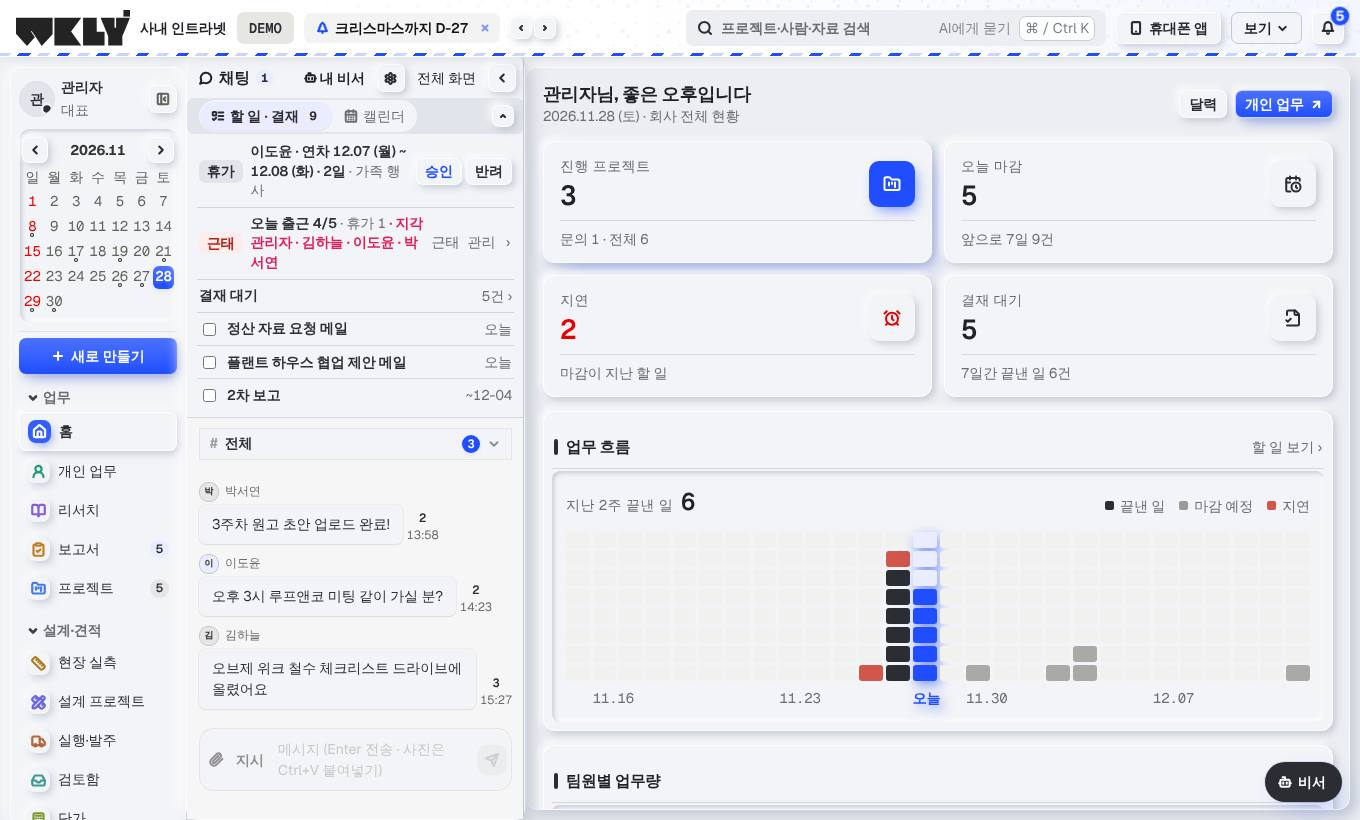
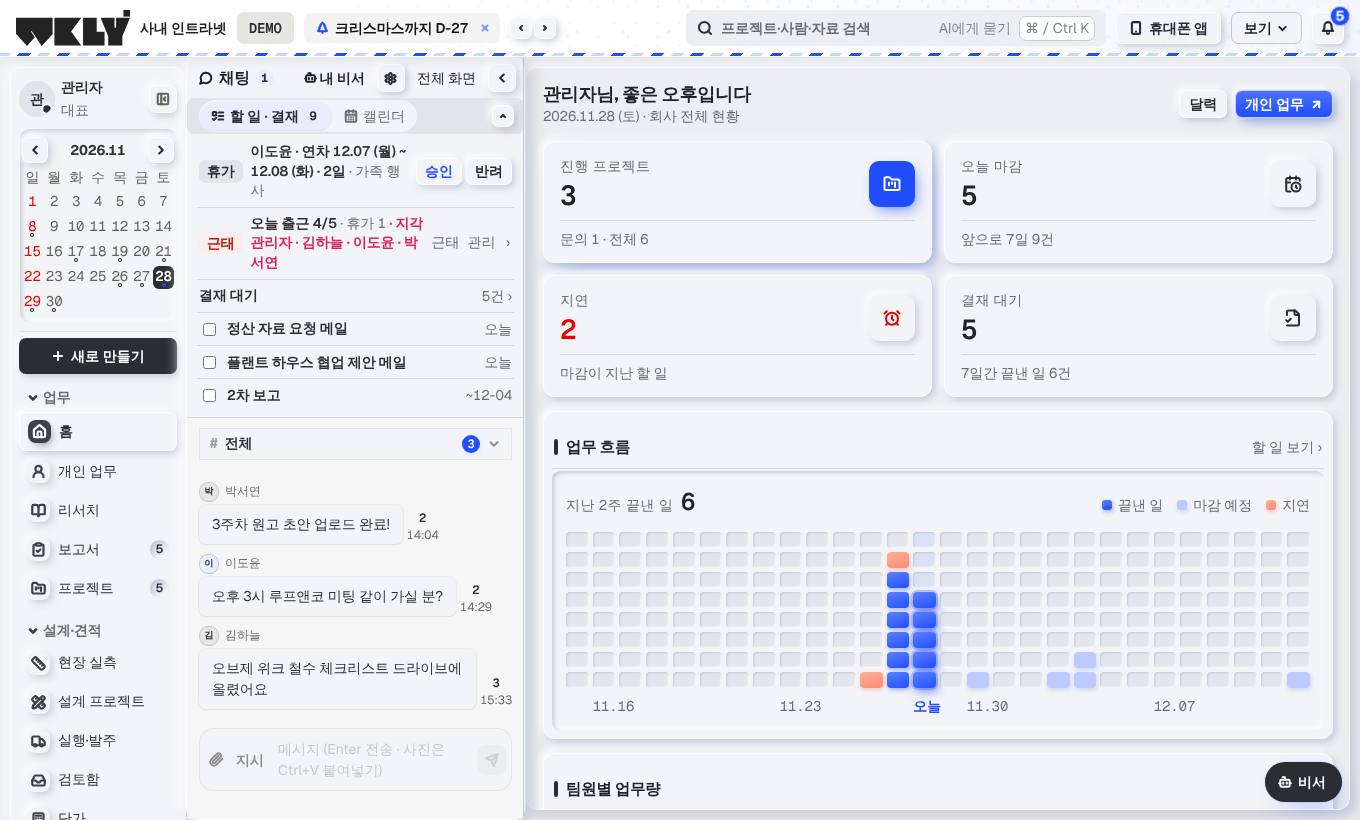
왼쪽 메뉴를 모노톤으로 (메뉴 색은 화면 안에서만)
Claude-Session: https://claude.ai/code/session_01F3gTQwJrgJEzSdbh5GAwru

diff --git a/erp/src/mono.css b/erp/src/mono.css
@@ -307,3 +307,11 @@ html:not([data-theme="dark"]) :is(.btn, .icon-btn, .quick-btn, .new-btn, .input,
 html:not([data-theme="dark"]) :is(.box, .stat, .kpi, .card, .home-kpi, .today-card, .checkin-card, .brief, .rd-box, .pc-card, .proj-card, .pboards-item, .week-day, .div-card, .ad-pcard, .mini-cal, .home-hero) { border-radius: var(--v8-r-card) !important; }
 html:not([data-theme="dark"]) .app-page :is(.main, .web-panel, .chat-dock, .profile) { border-radius: 12px !important; }
 html:not([data-theme="dark"]) .week-item { border-radius: 6px; }
+
+/* 왼쪽 메뉴는 모노톤 (2026-11-28 대표 '이거는 모노톤으로 수정해'): 아이콘 · 고른 줄 · 숫자 칸 모두 먹색 · 회색 — 메뉴 색은 그 화면 안(주 버튼 · 고른 것)에서만 */
+html:not([data-theme="dark"]) .app-page .profile .side-item > svg { background: var(--nm-face); color: var(--v9-ink); box-shadow: var(--nm-up-sm); }
+html:not([data-theme="dark"]) .app-page .profile .side-item.on { border-color: rgba(255, 255, 255, .8); box-shadow: var(--nm-up-sm); }
+html:not([data-theme="dark"]) .app-page .profile .side-item.on > svg { background: var(--v9-ink); color: #fff; box-shadow: 3px 4px 8px -3px rgba(43, 45, 51, .55); }
+html:not([data-theme="dark"]) .app-page .profile :is(.side-n, .side-item .count) { background: #e1e4ea !important; color: var(--v9-ink) !important; box-shadow: var(--nm-in-sm); }
+html:not([data-theme="dark"]) .app-page .profile :is(.new-btn, .btn-primary) { background: var(--v9-ink) !important; box-shadow: var(--nm-up-sm) !important; }
+html:not([data-theme="dark"]) .app-page .profile button.day.today { background: var(--v9-ink) !important; box-shadow: none; }

diff --git a/CLAUDE.md b/CLAUDE.md
@@ -112,7 +112,7 @@ Codex 공동 개발은 끝났다(2026-11-16 종료 · 2026-11-20 대표 지시 '
   - `src/styles.css` : 디자인 토큰 · WKLY v7 디자인 시스템 (사각 모서리, 글자 크기 단계 `--fs-cap 12 · sm 12.5 · body 13.5 · sub 14.5 · title 16 · num 19 · hero 28` (2026-11-09 위계 다시 잡음 · 맨 아래 :root 가 최종값 · 터치 화면은 반 단계 큼))
   - (아래 글자 위계의 굵기 800 · 700 은 2026-11-28 디자인 v9 에서 700 · 600 으로, 색 값은 mono.css 토큰으로 바뀜 — 크기 3단계 · px 직접 쓰지 않기 규칙은 그대로)
   - **글자 위계 (2026-11-17 대표 지시 '전체 공통사항 · 글자 크기는 타이틀 · 본문 · 강조 3가지만 · 색 구분과 볼드 규칙') — 새 화면도 반드시 지킬 것**: `src/type.css` 를 main.tsx 맨 끝에서 읽어 앞의 모든 단계를 덮어씀. 크기 3개 = 타이틀 `--t-title` 18px(제목 · 큰 숫자) · 강조 `--t-em` 15.5px(소제목 · 이름 줄) · 본문 `--t-body` 14px(나머지 전부 — 날짜 · 메타 · 배지 포함, 터치 화면 18.5/16/15) · 예전 토큰은 cap/sm/small/body → 본문, sub → 강조, title/num/hero → 타이틀로 이어짐. CSS 에 px 글자 크기를 새로 쓰지 말고 var(--fs-body | --fs-sub | --fs-title) 만 쓸 것(2026-11-17 에 94곳 바꿈 · 예외는 알림 숫자 동그라미 .side-n · .q2-badge · .bell .count 12px). 굵기 3개 = 800 타이틀 · 700 강조 · 400 본문(500 · 600 · 650 · 750 안 씀 · 76곳 바꿈). 색 = --tx-title #151d18 · --tx-body #222a25 · --tx-sub #535c56(보조는 크기 대신 색으로 낮춤 · --gray 도 이 색) · --tx-key #1f6b4a(누를 수 있는 것 · 고른 것) · 빨강은 지연 · 경고만. 묶음 클래스 .tx-title · .tx-em · .tx-body · .tx-sub · .tx-key. 차트 SVG 글자(charts.tsx 등)는 그대로
-  - **디자인 v9 모노톤 + 네온 빛 (2026-11-28 대표가 핀터레스트 참고 화면 넷을 골라 '이것들을 조합해서 디자인잡아 · 인트라넷 디자인 전체를 변경해 · 모노톤과 네온 효과' → '남은 화면들도 모노톤으로 · 폰트와 디자인규칙까지 모두 변경해 · 대시보드또한 디자인 배치 다시' · '색은 첨부이미지와 같이 네온 효과' · '빛이 새어나가는 효과를 잘 만들어') — 규칙 문서 `erp/docs/DESIGN_V9.md` · 새 화면도 반드시 이 규칙**: `src/mono.css`(main.tsx 맨 끝)가 토큰을 정함. ① 색 = 회색 계열 하나(바탕 #f0f0ee · 흰 카드 · 먹색 #141414 = 고른 것 · 막대) + 네온 파랑 `--v9-accent` #1f4dff 하나 · 빨강 · 노랑은 지연 · 경고만 · 초록 점은 '정상'만 ② 네온 = 가장자리에서 오른쪽 아래로 새어 나가는 파랑 빛 `--glow-1/2/3` · `--neon-soft` — 주 버튼 · 고른 것 · 오늘 · 가장 중요한 숫자 하나 · 누를 수 있는 카드 hover 에만, 글자색으로는 안 씀 ③ 글꼴 = 영문 · 숫자 Geist · 한글 Pretendard · 큰 숫자 · 연번 Geist Mono(구글 폰트 · index.html) · 크기 18 / 15.5 / 14 그대로 + 큰 숫자 `--t-num` 24 · **굵기 700 / 600 / 400**(예전 800 / 700 을 CSS 전체에서 한 단계씩 내림) ④ 모서리 카드 14 · 버튼 10 · 알약 ⑤ 카드 틀 = 회색 머리 + 흰 본문. 같은 날 **모든 CSS 의 굳은 색을 회색으로 바꿈**(초록 · 미색 · 보라 → 같은 밝기 회색 · 파랑 → `--v9-accent` / `-tint` · '화면 어둡게' 규칙 줄은 그대로 · 빨강 · 주황 · 노랑은 그대로) — **새 CSS 에 색 값을 직접 쓰지 말고 토큰을 쓸 것.** 구분 색은 `--div-ar/tw/rs`(먹색 · 회색 · 연회색) · 달력 내 업무는 네온 파랑. 홈 대시보드 새 배치(`pages/Dashboard.tsx` · `.css`): 인사 + 주 버튼 → 숫자 카드 넷(작은 막대 · 아래 설명 줄 · 첫 카드에 빛) → '업무 흐름' 점 격자(지난 2주 끝낸 일 · 앞으로 2주 마감 · 오늘 기둥에 빛 · `lib/dashboard.ts` dayFlow) + 팀원 세로 막대 → 마감이 가까운 프로젝트 표(진행 막대 · 상태 알약) → 앞으로 7일 · 구분별 → 진행 프로젝트 카드. 같은 날 2차 '부드럽게'(대표 '아직 안 바꾼 곳들도 모두 모노톤으로' · '디자인 ui,ux도 바꿔 · 색상의 사용도 수정하고 · 부드러운 느낌'): 새까만 색 대신 부드러운 먹색 `--v9-ink` #2b2d33 · 고른 것은 검은 알약 대신 연한 파랑 바탕 · 자주 누르는 버튼(.btn-blue 등)은 연한 파랑 · 테두리 대신 옅은 그림자 · 카드 18 / 버튼 12 · **styles.css 의 '모든 모서리 0 !important' 고정을 없앰(다시 넣지 말 것)** · 빛은 테 없이 넓게 · 0.2초 전환 · 창 뒤 뿌옇게. 차트(LedgerStats · MarketingFlow) · 화이트보드(미니맵 · 커서 · Excalidraw 색) · 설계(제안 보드 견본 색 · 3D 바닥 · 도면 바탕) · 기념일 장식 띠 · PC 오프라인 화면(desktop/offline.html — 다음 PC 프로그램 릴리스 때 반영)도 회색 + 네온 파랑. 그대로 둔 것: 실제 자재 색(3D · 마감재) · 거래처에 나가는 것(제안서 슬라이드 · 영업 메일 · 카드뉴스 · 광고 이미지). 같은 날 3차 '선명하게 · 메뉴마다 다른 색'(대표 '광고 화면 기간 고르기 칸과 묶음 탭도 고쳐 · 아이콘과 배경들 각각의 카드들의 선구분을 선명하게 · 색은 각 메뉴마다 다른 색' · 참고 Product UI Styleguide): **강조색 `--v9-accent` 는 메뉴마다 다름**(`lib/menuColors.ts` · Shell 이 지금 메뉴 색을 html 에 넣음 · 빛 · 연한 바탕 · 주 버튼은 color-mix 로 계산 — CSS 에 파랑을 직접 쓰지 말 것 · 새 메뉴는 색 한 줄 추가) · 왼쪽 메뉴 아이콘은 메뉴 색 칸 · 카드는 흰 바탕 + 1px 선 #dbdbd7 + 옅은 그림자(바탕 #eeeeeb) · 광고 묶음 탭 = 홈 안의 흰 카드 · 기간 고르기 = 알약. 같은 날 4차 '볼록 · 오목'(대표가 뉴모피즘 참고 그림 두 장을 보내 '이 ui도 사용해' · '이것도 넣어'): 면은 바탕과 거의 같은 밝은 회색 · 구분은 왼쪽 위 빛 + 오른쪽 아래 그림자(`--nm-up` 떠 있음 = 카드 · 버튼 / `--nm-in` 눌림 = 입력 칸 · 고른 칩 · 고른 메뉴 줄) · 구간 고르기는 회색 홈 + 흰 알약 · 켜고 끄는 설정은 체크박스에 className `nm-switch`(스위치 모양). 같은 날 5차(대표 '나머지 화면들도 모두 볼록 오목 디자인으로 · 모서리 라운드 좀 더 각지게'): 흰 바탕을 없앰 — `--white` · `--v8-card` 와 모든 CSS 의 흰 바탕 165곳을 `var(--nm-face)` 로(**새 CSS 에 `background: #fff` 를 쓰지 말 것**) · 테두리 있는 묶음 칸 30여 종을 떠 있는 모양으로 · 모서리 카드 10 / 버튼 · 입력 · 칩 7 / 큰 판 12(알약 · 원은 스위치와 숫자 동그라미만). 사용 안내 사진 13장 · 영상 3개 다시 찍음 · 안내 글(guides.ts 두 곳)의 홈 · 할 일(/my) · 일정(/projects?view=calendar)을 새 구조에 맞춤(agent-chat 쪽은 다음 배포 때 반영).
+  - **디자인 v9 모노톤 + 네온 빛 (2026-11-28 대표가 핀터레스트 참고 화면 넷을 골라 '이것들을 조합해서 디자인잡아 · 인트라넷 디자인 전체를 변경해 · 모노톤과 네온 효과' → '남은 화면들도 모노톤으로 · 폰트와 디자인규칙까지 모두 변경해 · 대시보드또한 디자인 배치 다시' · '색은 첨부이미지와 같이 네온 효과' · '빛이 새어나가는 효과를 잘 만들어') — 규칙 문서 `erp/docs/DESIGN_V9.md` · 새 화면도 반드시 이 규칙**: `src/mono.css`(main.tsx 맨 끝)가 토큰을 정함. ① 색 = 회색 계열 하나(바탕 #f0f0ee · 흰 카드 · 먹색 #141414 = 고른 것 · 막대) + 네온 파랑 `--v9-accent` #1f4dff 하나 · 빨강 · 노랑은 지연 · 경고만 · 초록 점은 '정상'만 ② 네온 = 가장자리에서 오른쪽 아래로 새어 나가는 파랑 빛 `--glow-1/2/3` · `--neon-soft` — 주 버튼 · 고른 것 · 오늘 · 가장 중요한 숫자 하나 · 누를 수 있는 카드 hover 에만, 글자색으로는 안 씀 ③ 글꼴 = 영문 · 숫자 Geist · 한글 Pretendard · 큰 숫자 · 연번 Geist Mono(구글 폰트 · index.html) · 크기 18 / 15.5 / 14 그대로 + 큰 숫자 `--t-num` 24 · **굵기 700 / 600 / 400**(예전 800 / 700 을 CSS 전체에서 한 단계씩 내림) ④ 모서리 카드 14 · 버튼 10 · 알약 ⑤ 카드 틀 = 회색 머리 + 흰 본문. 같은 날 **모든 CSS 의 굳은 색을 회색으로 바꿈**(초록 · 미색 · 보라 → 같은 밝기 회색 · 파랑 → `--v9-accent` / `-tint` · '화면 어둡게' 규칙 줄은 그대로 · 빨강 · 주황 · 노랑은 그대로) — **새 CSS 에 색 값을 직접 쓰지 말고 토큰을 쓸 것.** 구분 색은 `--div-ar/tw/rs`(먹색 · 회색 · 연회색) · 달력 내 업무는 네온 파랑. 홈 대시보드 새 배치(`pages/Dashboard.tsx` · `.css`): 인사 + 주 버튼 → 숫자 카드 넷(작은 막대 · 아래 설명 줄 · 첫 카드에 빛) → '업무 흐름' 점 격자(지난 2주 끝낸 일 · 앞으로 2주 마감 · 오늘 기둥에 빛 · `lib/dashboard.ts` dayFlow) + 팀원 세로 막대 → 마감이 가까운 프로젝트 표(진행 막대 · 상태 알약) → 앞으로 7일 · 구분별 → 진행 프로젝트 카드. 같은 날 2차 '부드럽게'(대표 '아직 안 바꾼 곳들도 모두 모노톤으로' · '디자인 ui,ux도 바꿔 · 색상의 사용도 수정하고 · 부드러운 느낌'): 새까만 색 대신 부드러운 먹색 `--v9-ink` #2b2d33 · 고른 것은 검은 알약 대신 연한 파랑 바탕 · 자주 누르는 버튼(.btn-blue 등)은 연한 파랑 · 테두리 대신 옅은 그림자 · 카드 18 / 버튼 12 · **styles.css 의 '모든 모서리 0 !important' 고정을 없앰(다시 넣지 말 것)** · 빛은 테 없이 넓게 · 0.2초 전환 · 창 뒤 뿌옇게. 차트(LedgerStats · MarketingFlow) · 화이트보드(미니맵 · 커서 · Excalidraw 색) · 설계(제안 보드 견본 색 · 3D 바닥 · 도면 바탕) · 기념일 장식 띠 · PC 오프라인 화면(desktop/offline.html — 다음 PC 프로그램 릴리스 때 반영)도 회색 + 네온 파랑. 그대로 둔 것: 실제 자재 색(3D · 마감재) · 거래처에 나가는 것(제안서 슬라이드 · 영업 메일 · 카드뉴스 · 광고 이미지). 같은 날 3차 '선명하게 · 메뉴마다 다른 색'(대표 '광고 화면 기간 고르기 칸과 묶음 탭도 고쳐 · 아이콘과 배경들 각각의 카드들의 선구분을 선명하게 · 색은 각 메뉴마다 다른 색' · 참고 Product UI Styleguide): **강조색 `--v9-accent` 는 메뉴마다 다름**(`lib/menuColors.ts` · Shell 이 지금 메뉴 색을 html 에 넣음 · 빛 · 연한 바탕 · 주 버튼은 color-mix 로 계산 — CSS 에 파랑을 직접 쓰지 말 것 · 새 메뉴는 색 한 줄 추가) · 왼쪽 메뉴는 대표 지시로 다시 모노톤(아이콘 · 고른 줄 · 숫자 칸 먹색 — 메뉴 색은 화면 안에서만) · 카드는 흰 바탕 + 1px 선 #dbdbd7 + 옅은 그림자(바탕 #eeeeeb) · 광고 묶음 탭 = 홈 안의 흰 카드 · 기간 고르기 = 알약. 같은 날 4차 '볼록 · 오목'(대표가 뉴모피즘 참고 그림 두 장을 보내 '이 ui도 사용해' · '이것도 넣어'): 면은 바탕과 거의 같은 밝은 회색 · 구분은 왼쪽 위 빛 + 오른쪽 아래 그림자(`--nm-up` 떠 있음 = 카드 · 버튼 / `--nm-in` 눌림 = 입력 칸 · 고른 칩 · 고른 메뉴 줄) · 구간 고르기는 회색 홈 + 흰 알약 · 켜고 끄는 설정은 체크박스에 className `nm-switch`(스위치 모양). 같은 날 5차(대표 '나머지 화면들도 모두 볼록 오목 디자인으로 · 모서리 라운드 좀 더 각지게'): 흰 바탕을 없앰 — `--white` · `--v8-card` 와 모든 CSS 의 흰 바탕 165곳을 `var(--nm-face)` 로(**새 CSS 에 `background: #fff` 를 쓰지 말 것**) · 테두리 있는 묶음 칸 30여 종을 떠 있는 모양으로 · 모서리 카드 10 / 버튼 · 입력 · 칩 7 / 큰 판 12(알약 · 원은 스위치와 숫자 동그라미만). 사용 안내 사진 13장 · 영상 3개 다시 찍음 · 안내 글(guides.ts 두 곳)의 홈 · 할 일(/my) · 일정(/projects?view=calendar)을 새 구조에 맞춤(agent-chat 쪽은 다음 배포 때 반영).
   - 디자인 v8 (2026-11-16 대표 지시 '인트라넷 디자인 개선해' · Houzz Pro 스타일 계획 문서 1단계): `src/refresh.css` 를 main.tsx 맨 끝에서 읽음 — 따뜻한 미색 바탕(#f6f4ef) · 흰 작업 칸 · 둥근 모서리(카드 12 · 버튼·입력 8 · 태그 알약, v7 의 '모두 사각'을 덮어씀) · 흰 위쪽 바(초록 로고) · 테두리 없는 메뉴(고른 줄 흰 칸) · 밑줄 탭 · 가로선만 표 · 연한 배지 · 글꼴 Pretendard(jsdelivr · 무료) + 숫자도 같은 글꼴 고정폭. 색은 `html:not([data-theme=dark])` 에만 → '화면 어둡게'는 그대로. 새 화면은 --v8-* 토큰을 쓸 것. import 한 줄을 빼면 v7 로 돌아감
   - 실행 내역 엑셀 읽기 (2026-11-17 대표 우선순위 3 '실제 프로젝트로 검증'): `lib/designCost.ts` parseCostSheet 가 회사 '실행집행 내역서' 양식(구분 · 견적 항목 · 실행 내역 · 단위 · 수량 · 실행 단가 · 실행 금액 · 발주처 · 근거·확인)도 읽음 — 품목 = 실행 내역, 구분 · 견적 항목은 아래 줄로 이어 씀(견적 항목은 비고 앞 [ ]), 단위 저장, 발주처 '미정 · 내부 · —'는 업체 없음. 예전엔 '실행 단가' 머리 줄을 못 알아봐 '실행 내역을 찾지 못했습니다'가 났음. 시험 tests/design-cost.test.ts. 11/17 로제코(AR2610-08) 설계 프로젝트에 실물 60줄 · 49,703,600원 넣어 확인(openpyxl 계산과 일치 · 견적 공급가 6,000만 대비 실행 82.8%). 조달청 물가 기준은 이 견적처럼 인건비(인) · 식 단위가 많으면 0/60 매칭 → 시중노임단가 기준이 다음 과제
   - 사진 카드 (2026-11-17 대표 우선순위 1 'Houzz Pro 식 화면 개편'): 프로젝트 카드(홈 · 프로젝트 '카드' 보기 · `components/ProjectCards.tsx`) 맨 위 16:10 대표 사진 + 사진 위 구분 알약 · 남은 기간, 사진 없으면 구분 색 바탕에 연번. 프로젝트 상세 머리 아래 표지 사진(`ProjectCoverBanner` · 사진 있을 때만). 홈 숫자 카드 4개 왼쪽 아이콘 타일. 사진은 서버 함수 `project-covers`(verify_jwt false · x-sync-key = GDRIVE_SYNC_KEY · 10분마다 cron project_covers → private.project_covers_tick)가 drive_index 사진 중 하나를 골라(`project-covers/cover.ts` pickCover: 준공 · 촬영 > 투시도 · 렌더 · 성과물 그래픽 > 현장 사진(상권조사 제외) > 컨셉 · 시안 > 기타 · 계약 · 견적 · 통장 · 명함 · 캡처 · 로고 · 슬랙 · 카톡 제외 · 60KB 이상) 드라이브 미리보기(긴 변 800px)만 비공개 보관함 project-covers 에 넣음 · 표 public.project_covers(활성 팀원 읽기 · 쓰기는 서버만 · source auto|manual · 자동은 3일마다 다시 고름) · api.projectCovers()(서명 주소 1시간 · signedUrlCache) · 체험 모드는 사진 없음. 20261117201000_project_covers. 시험 `npm run test:covers`

diff --git a/erp/docs/DESIGN_V9.md b/erp/docs/DESIGN_V9.md
@@ -79,3 +79,5 @@
 - 흰 바탕은 쓰지 않는다: `--white` · `--v8-card` 와 CSS 의 흰 바탕(`background: #fff` 등)은 모두 `var(--nm-face)`. 새 CSS 도 바탕은 `var(--nm-face)`.
 - 테두리 있는 묶음 칸은 떠 있는 모양(`--nm-up-sm`) — mono.css 맨 아래 목록에 클래스를 더한다.
 - 모서리: 카드 10 · 버튼 · 입력 7 · 칩 · 태그 7 · 큰 판(본문 · 메뉴) 12. 알약(999px) · 원은 스위치와 숫자 동그라미에만.
+
+- (2026-11-28 대표 '이거는 모노톤으로') **왼쪽 메뉴는 모노톤**: 아이콘 · 고른 줄 · 숫자 칸 · '새로 만들기'는 먹색 · 회색만. 메뉴 색은 그 화면 안(주 버튼 · 고른 것 · 그래프)에서만 쓴다.
